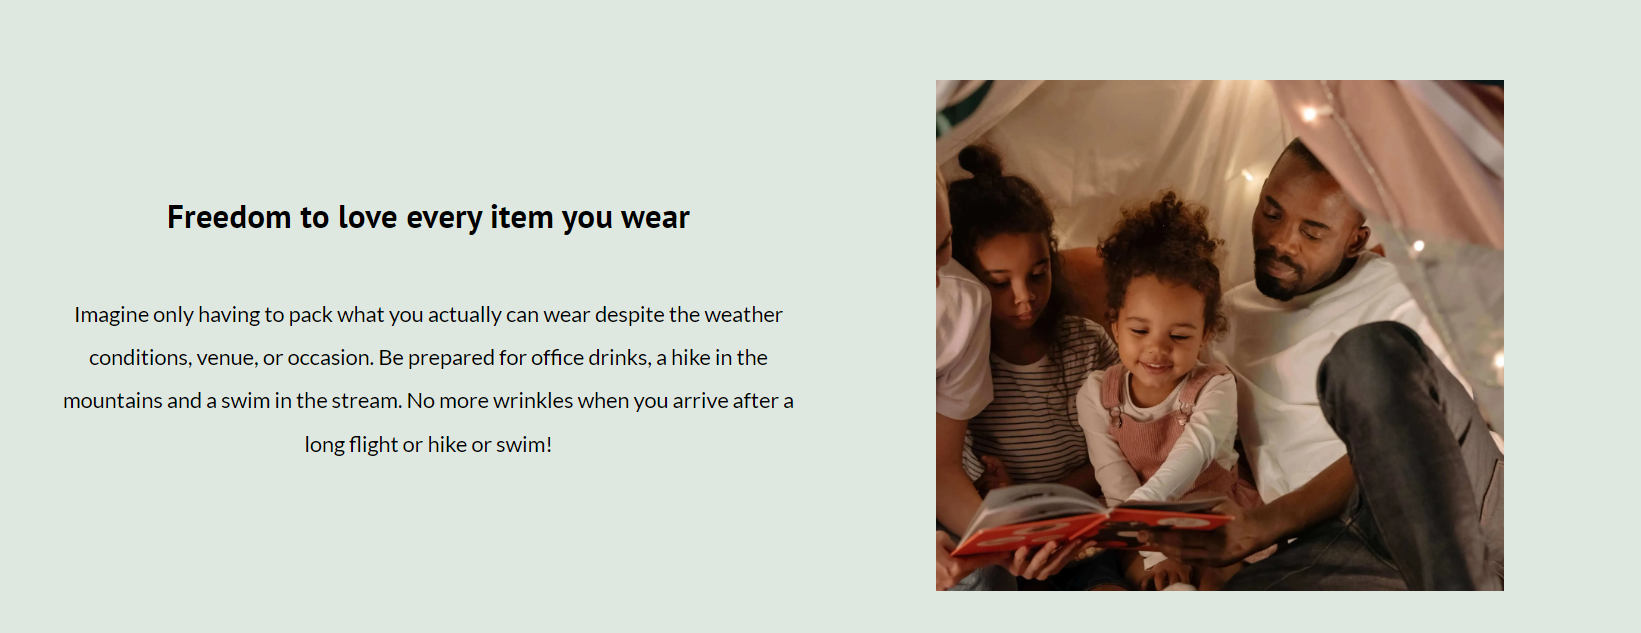
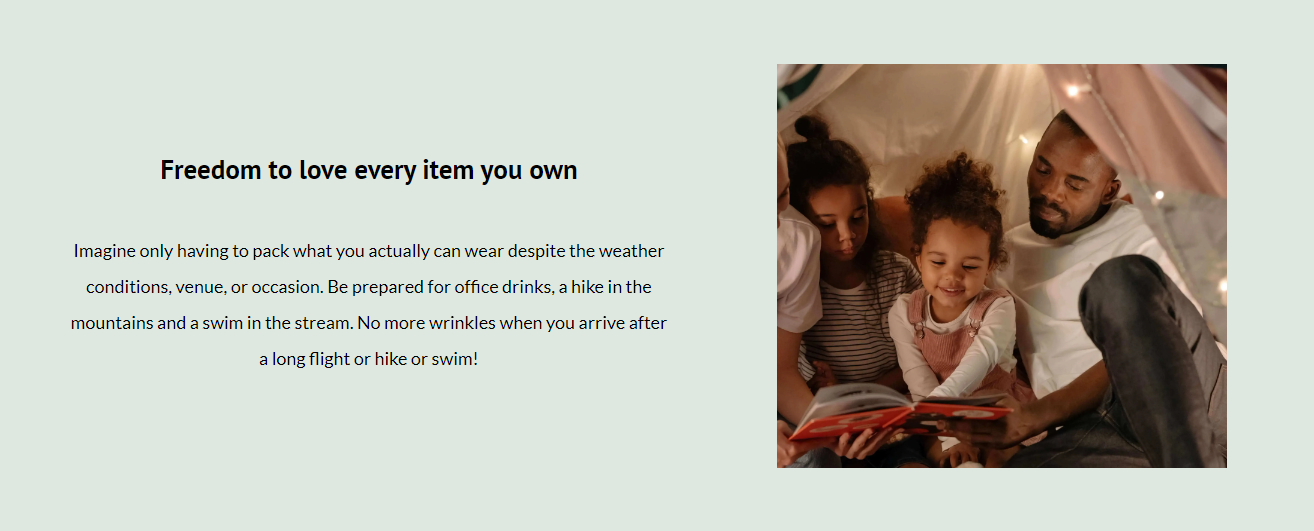
fix naming conventions all pages

Changed region(s): [[0.5616, 0.1205, 0.9361, 0.9341], [0.0312, 0.452, 0.4992, 0.7232], [0.0936, 0.3013, 0.4368, 0.3616]]

diff --git a/freedom.html b/freedom.html
@@ -76,7 +76,7 @@
     <section id="info_2">
       <div id="options_2">
         <div>
-          <h3>Freedom to love every item you have</h3>
+          <h3>Freedom to love every item you own</h3>
           <br>
           <p>Imagine only having to pack what you actually can wear despite the weather conditions, venue, or occasion.
             Be prepared for office drinks, a hike in the mountains and a swim in the stream. No more wrinkles when you
